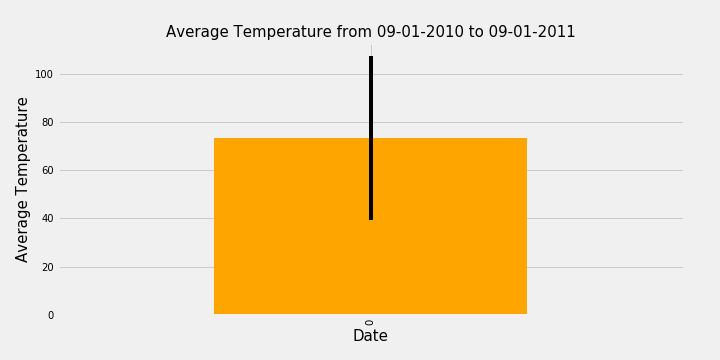
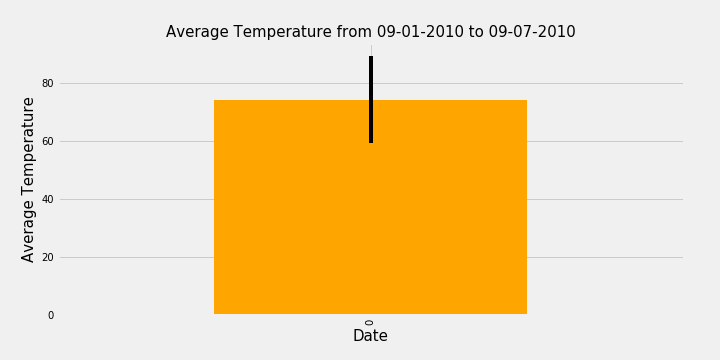
updt rdme, bonus tempii, clim explr

diff --git a/README.md b/README.md
@@ -1,6 +1,6 @@
 # SQLAlchemy - Surfs Up!
 
-Being treated to a vacation to Honolulu, Hawaii between September 1 to September 7. Will be doing some climate analysis on the area.
+Was treated to a vacation to Honolulu, Hawaii between September 1 to September 7 of 2011. Will be doing some climate analysis on the area during that past time period.
 
 **Objectives of the Research Project is to illustrate**
 - SQLAlchemy ORM queries
@@ -8,9 +8,9 @@ Being treated to a vacation to Honolulu, Hawaii between September 1 to September
 - Matplotlib
 - Flask API
 
-#### Climate Analysis and Exploration
+## Climate Analysis and Exploration
 
-###### Part 1: Precipitation Analysis
+#### Part 1: Precipitation Analysis
 Precipitation Analysis shows the following below:
 - SQLAlchemy ORM queries retrieving precipitation data for the last 12 months
 - Loading queries into a Pandas DataFrame
@@ -18,7 +18,7 @@ Precipitation Analysis shows the following below:
 
 ![](https://github.com/diannejardinez/sql-alchemy-challenge/blob/master/Output_data/Precipitation_Analysis.png)
 
-###### Part 2: Station Analysis
+#### Part 2: Station Analysis
 Station Analysis shows the following below:
 - SQLAlchemy ORM queries retrieving station data of the most active station(Station USC00519281 located in Waihee, HI) and its temperature observation data(TOBS) in the last 12 months
 - Loading queries into a Pandas DataFrame
@@ -27,10 +27,10 @@ Station Analysis shows the following below:
 ![](https://github.com/diannejardinez/sql-alchemy-challenge/blob/master/Output_data/Station_Analysis_USC00519281.png)
 
 
-###### Part 3: Climate App
+#### Part 3: Climate App
 Climate App shows a Flask API based on the queries below:
 - Homepage route:
-	-Listing all available routes
+	- Listing all available routes
 
 - `/api/v1.0/precipitation` route:
 	- Returning a JSON representation of a dictionary of dates and precipitation values for all stations from the dataset
@@ -46,5 +46,29 @@ Climate App shows a Flask API based on the queries below:
 
 - `/api/v1.0/<start>/<end>` route:
 	- User is able to specify a start and end date and is returned a JSON list of the minimum temperature, the average temperature, and the max temperature for that specific date range
+
+
+## Bonus: Other Recommended Analyses
+
+#### Temperature Analysis I
+Temperature Analysis I shows the following below:
+- Identifies the average temperature in June and December at all stations across all available years in the dataset
+
+- Conduct an unpaired independent t-test for two independent datasets to determine if there is a statistical difference between temperature means between June and December. 
+![](https://github.com/diannejardinez/sql-alchemy-challenge/blob/master/Output_data/Bonus_TempAnI_tobs_JunDec_sctrplt.png)
+
+
+*After completing test, and assuming a 5% significant level, we received a p value of 4.193529835915755e-187 so reject the Null Hypothesis and accept the Alternative Hypothesis that there is a meaningful and statistically significant difference in temperature between June and December*
+
+
+
+#### Temperature Analysis II
+Temperature Analysis II shows the following below:
+- SQLAlchemy ORM queries to calculate the minimum, average, and maximum temperatures for the previous year of trip dates (previous year range: 09/01/2010 to 09/07/2010)
+- Loading queries into a Pandas DataFrame
+- Using DataFrame bar plot method with an error bar for the average temperature observations for dates between 09/01/2010 to 09/07/2010
+
+
+
 
 	
